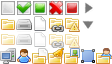
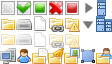
Add possibility to select Hyper-V Machines in the sourceFolderPicker

Changed region(s): [[0.8571, 0.0, 1.0, 0.5]]

diff --git a/Duplicati/Server/webroot/ngax/scripts/directives/sourceFolderPicker.js b/Duplicati/Server/webroot/ngax/scripts/directives/sourceFolderPicker.js
@@ -9,7 +9,7 @@ backupApp.directive('sourceFolderPicker', function() {
     },
     templateUrl: 'templates/sourcefolderpicker.html',
 
-    controller: function($scope, $timeout, SystemInfo, AppService, AppUtils) {
+    controller: function($scope, $timeout, SystemInfo, AppService, AppUtils, gettextCatalog) {
 
         var scope = $scope;
         scope.systeminfo = SystemInfo.watch($scope);
@@ -30,7 +30,7 @@ backupApp.directive('sourceFolderPicker', function() {
                 path += dirsep;
 
             return scope.systeminfo.CaseSensitiveFilesystem ? path : path.toLowerCase();
-        };
+        }
 
         function setIconCls(n) {
             var cp = compareablePath(n.id);
@@ -49,6 +49,11 @@ backupApp.directive('sourceFolderPicker', function() {
                 n.iconCls = 'x-tree-icon-broken';
             else if (cp.substr(cp.length - 1, 1) != dirsep)
                 n.iconCls = 'x-tree-icon-leaf';
+            else if (n.id.substr(0, 8) == "%HYPERV:") {
+                n.iconCls = 'x-tree-icon-hypervmachine';
+                n.tooltip = gettextCatalog.getString("ID:") + " " + n.id.substring(8, n.id.length - 1);
+            }
+
         }
 
         function indexOfPathInArray(array, item) {
@@ -59,7 +64,7 @@ backupApp.directive('sourceFolderPicker', function() {
 
             return -1;
 
-        };
+        }
 
         function removePathFromArray(array, item) {
             var ix = indexOfPathInArray(array, item);
@@ -69,7 +74,7 @@ backupApp.directive('sourceFolderPicker', function() {
             }
 
             return false;
-        };
+        }
 
         function traversenodes(m, start) {
             var root = (start || scope.treedata);
@@ -94,7 +99,7 @@ backupApp.directive('sourceFolderPicker', function() {
                         work.push([x[1], x[1].children[v]]);
                 }
             }
-        };
+        }
 
         function buildidlookup(sources, map) {
             var dirsep = scope.systeminfo.DirectorySeparator || '/';            
@@ -116,7 +121,7 @@ backupApp.directive('sourceFolderPicker', function() {
             }
 
             return map;    
-        };
+        }
 
         function updateIncludeFlags(root, parentFlag) {
             if (root != null)
@@ -141,10 +146,10 @@ backupApp.directive('sourceFolderPicker', function() {
                 else
                     n.include = null;
             }, root);            
-        };
+        }
 
         function syncTreeWithLists() {
-            if (scope.ngSources == null || scope.treedata.children == null)
+            if (scope.ngSources == null || scope.treedata.children.length < 3)
                 return;
 
             dirsep = scope.systeminfo.DirectorySeparator || '/';            
@@ -170,7 +175,10 @@ backupApp.directive('sourceFolderPicker', function() {
             if (anySpecials)
                 filterList = AppUtils.filterListToRegexps(scope.ngFilters, scope.systeminfo.CaseSensitiveFilesystem);
 
-            var sources = scope.treedata.children[2].children;
+            for (var i in scope.treedata.children)
+                if (scope.treedata.children[i].isSourcenode === true)
+                    var sources = scope.treedata.children[i].children;
+
             sources.length = 0;
 
             function findInList(lst, path) {
@@ -179,7 +187,7 @@ backupApp.directive('sourceFolderPicker', function() {
                         return x;
 
                 return false;
-            };
+            }
 
             for(var i = 0; i < scope.ngSources.length; i++) {
                 var k = compareablePath(scope.ngSources[i]);
@@ -306,12 +314,13 @@ backupApp.directive('sourceFolderPicker', function() {
             } else if (node.include == '-') {
                 removePathFromArray(scope.ngFilters, '-' + node.id);
             }
-        }
+        };
 
         $scope.toggleExpanded = function(node) {
             node.expanded = !node.expanded;
 
-            if (node.root || node.iconCls == 'x-tree-icon-leaf' || node.iconCls == 'x-tree-icon-locked')
+            if (node.root || node.iconCls == 'x-tree-icon-leaf' || node.iconCls == 'x-tree-icon-locked'
+                || node.iconCls == 'x-tree-icon-hyperv' || node.iconCls == 'x-tree-icon-hypervmachine')
                 return;
 
             if (!node.children && !node.loading) {
@@ -338,35 +347,34 @@ backupApp.directive('sourceFolderPicker', function() {
             scope.selectednode = node;
             scope.selectednode.selected = true;
         };
-        
+
+        scope.treedata.children = [];
+
         AppService.post('/filesystem?onlyfolders=false&showhidden=true', {path: '/'}).then(function(data) {
 
             var usernode = {
-                text: 'User data',
+                text: gettextCatalog.getString('User data'),
                 root: true,
                 iconCls: 'x-tree-icon-userdata',
                 expanded: true,
                 children: []
             };
             var systemnode = {
-                text: 'Computer',
+                text: gettextCatalog.getString('Computer'),
                 root: true,
                 iconCls: 'x-tree-icon-computer',
                 children: []
             };
             var sourcenode = {
-                text: 'Source data',
+                text: gettextCatalog.getString('Source data'),
                 root: true,
                 iconCls: 'x-tree-icon-others',
                 expanded: true,
-                children: []
+                children: [],
+                isSourcenode: true
             };
 
-            scope.treedata.children = [
-                usernode, 
-                systemnode, 
-                sourcenode
-            ];
+            scope.treedata.children.push(usernode, systemnode, sourcenode);
 
             displayMap = {};
 
@@ -384,6 +392,37 @@ backupApp.directive('sourceFolderPicker', function() {
 
             syncTreeWithLists();
 
+        }, AppUtils.connectionError);
+
+        AppService.get('/hyperv', {path: '/'}).then(function(data) {
+            if (data.data.length > 0) {
+                var hypervnode = {
+                    text: gettextCatalog.getString('Hyper-V Machines'),
+                    root: true,
+                    iconCls: 'x-tree-icon-hyperv',
+                    children: []
+                };
+
+                // add HyperV at the beginning
+                if (scope.treedata.children.length < 1)
+                    scope.treedata.children.push(hypervnode);
+                else
+                    scope.treedata.children = [hypervnode].concat(scope.treedata.children);
+
+                for (var i = 0; i < data.data.length; i++) {
+                    var node = {
+                        iconCls: "x-tree-icon-hypervmachine",
+                        leaf: true,
+                        id: "%HYPERV:" + data.data[i].id + "%",
+                        tooltip: gettextCatalog.getString("ID:") + " " + data.data[i].id,
+                        text: data.data[i].name};
+
+                    var cp = compareablePath(node.id);
+                    displayMap[cp] = data.data[i].name;
+                    defunctmap[cp] = false;
+                    hypervnode.children.push(node);
+                }
+            }
         }, AppUtils.connectionError);
     }
   }

diff --git a/Duplicati/Server/webroot/ngax/templates/sourcefolderpicker.html b/Duplicati/Server/webroot/ngax/templates/sourcefolderpicker.html
@@ -2,10 +2,10 @@
   <li ng-repeat="node in $dxPrior.children" ng-class="{hidden: (node.hidden &amp;&amp; !ngShowHidden)}">
       <div ng-class="{selected: node.selected}">
           <a class="nav" ng-click="toggleExpanded(node)" ng-class="{expanded: node.expanded, leaf: node.leaf}"></a>
-        <a class="check" ng-click="toggleCheck(node)" ng-class="{include: node.include == '+', exclude: node.include == '-', partial: node.include == ' ', root: node.root}"></a>
+          <a class="check" ng-click="toggleCheck(node)" ng-class="{include: node.include == '+', exclude: node.include == '-', partial: node.include == ' ', root: node.root}"></a>
           <a class="type {{node.iconCls}}" ng-class="{invisible: node.hidden, loading: node.loading}"></a>
 
-          <span ng-click="toggleSelected(node)">{{ node.text }}</span>
+          <span ng-click="toggleSelected(node)" title="{{ node.tooltip }}">{{ node.text }}</span>
     </div>
     <ul ng-class="{expanded: node.expanded, include: node.include, exclude: node.exclude}" dx-connect="node"/>
   </li>

diff --git a/Duplicati/Server/webroot/ngax/styles/styles2.css b/Duplicati/Server/webroot/ngax/styles/styles2.css
@@ -85,6 +85,14 @@
     background-position: 0px -48px;
 }
 
+.tree-view a.type.x-tree-icon-hyperv {
+    background-position: -96px -16px;
+}
+
+.tree-view a.type.x-tree-icon-hypervmachine {
+    background-position: -96px 0px;
+}
+
 .tree-view a.type.x-tree-icon-mydocuments {
     background-position: -32px -48px;
 }
